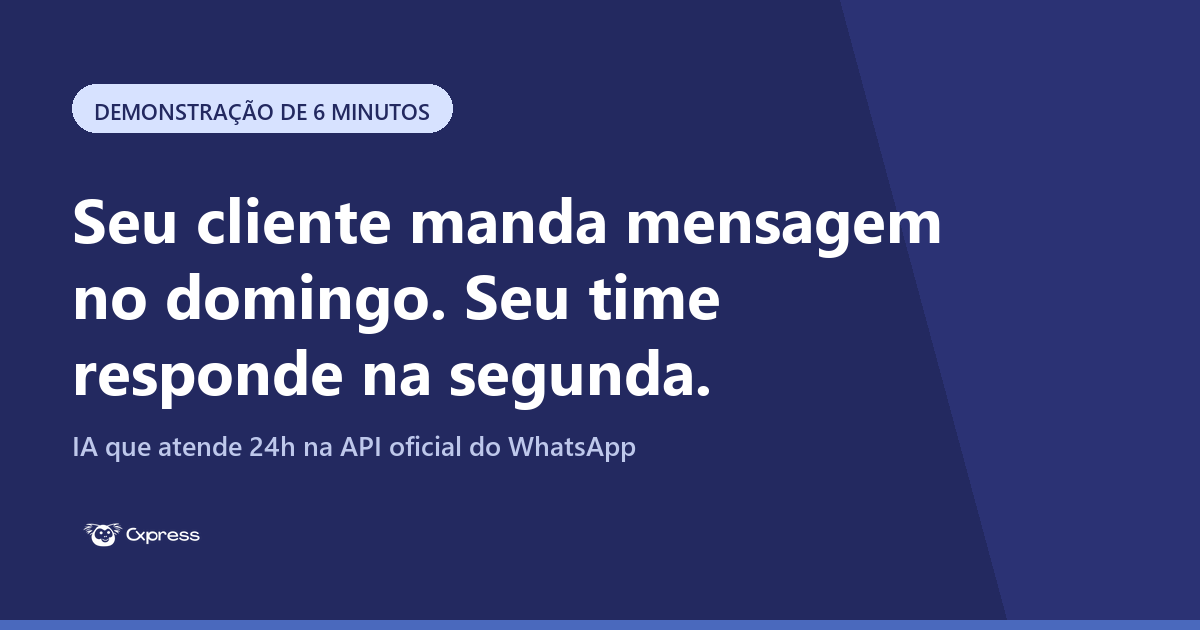
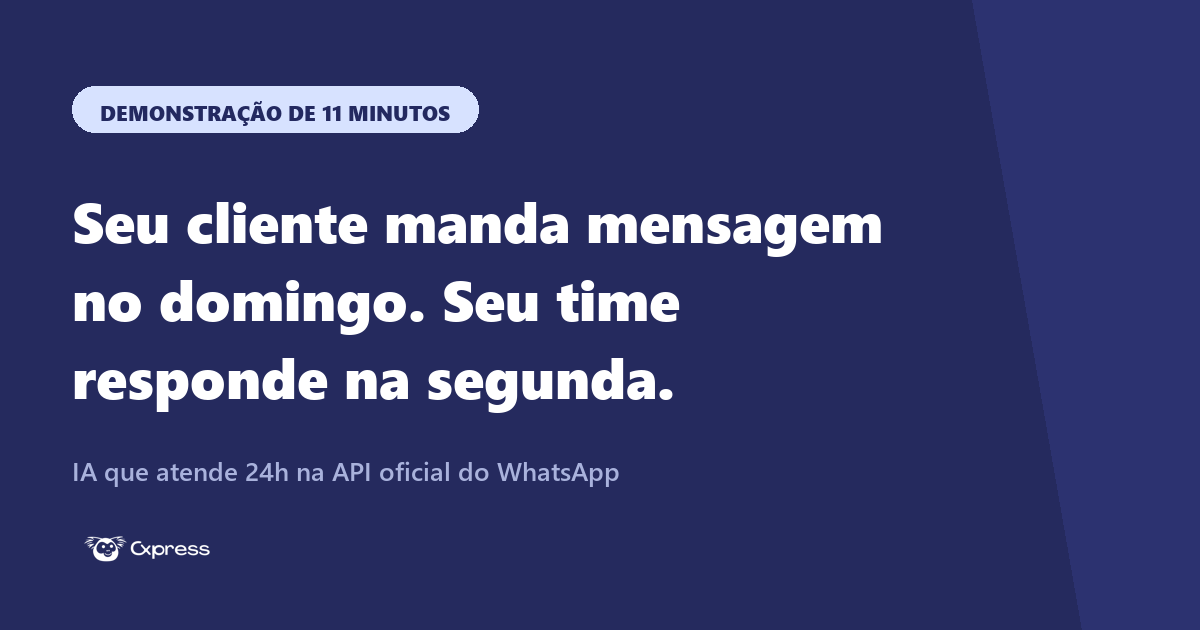
Atualizar duracao da demo para 11 minutos na LP VSL (#485)

diff --git a/landing-pages/cxpress/vsl-atendimento-ia/index.html b/landing-pages/cxpress/vsl-atendimento-ia/index.html
@@ -15,7 +15,7 @@ j=d.createElement(s),dl=l!='dataLayer'?'&l='+l:'';j.async=true;j.src=
 
   <link rel="icon" type="image/png" href="../../brand/cxpress/assets/logos/logo-icon.png" />
 
-  <meta name="description" content="Veja em 6 minutos como a IA da Cxpress atende 24 horas, qualifica e passa pro seu time só o que precisa de gente. API oficial do WhatsApp, mesmo número, no ar em 21 dias.">
+  <meta name="description" content="Veja em 11 minutos como a IA da Cxpress atende 24 horas, qualifica e passa pro seu time só o que precisa de gente. API oficial do WhatsApp, mesmo número, no ar em 21 dias.">
   <meta name="robots" content="index, follow">
   <meta name="author" content="Cxpress">
 
@@ -24,7 +24,7 @@ j=d.createElement(s),dl=l!='dataLayer'?'&l='+l:'';j.async=true;j.src=
   <meta property="og:locale" content="pt_BR">
   <meta property="og:url" content="https://{{DOMAIN}}/vsl-atendimento-ia">
   <meta property="og:title" content="Atendimento 24h com IA na API oficial do WhatsApp | Cxpress">
-  <meta property="og:description" content="Veja em 6 minutos como a IA da Cxpress atende 24 horas e passa pro seu time só o que precisa de gente.">
+  <meta property="og:description" content="Veja em 11 minutos como a IA da Cxpress atende 24 horas e passa pro seu time só o que precisa de gente.">
   <meta property="og:image" content="https://{{DOMAIN}}/assets/cxpress/og-vsl-atendimento-ia.png">
   <meta property="og:image:width" content="1200">
   <meta property="og:image:height" content="630">
@@ -32,7 +32,7 @@ j=d.createElement(s),dl=l!='dataLayer'?'&l='+l:'';j.async=true;j.src=
 
   <meta name="twitter:card" content="summary_large_image">
   <meta name="twitter:title" content="Atendimento 24h com IA na API oficial do WhatsApp | Cxpress">
-  <meta name="twitter:description" content="Veja em 6 minutos como a IA da Cxpress atende 24 horas e passa pro seu time só o que precisa de gente.">
+  <meta name="twitter:description" content="Veja em 11 minutos como a IA da Cxpress atende 24 horas e passa pro seu time só o que precisa de gente.">
   <meta name="twitter:image" content="https://{{DOMAIN}}/assets/cxpress/og-vsl-atendimento-ia.png">
 
   <script type="application/ld+json">
@@ -40,7 +40,7 @@ j=d.createElement(s),dl=l!='dataLayer'?'&l='+l:'';j.async=true;j.src=
     "@context": "https://schema.org",
     "@graph": [
       { "@type": "Organization", "@id": "https://home.cxpress.io/#organization", "name": "Cxpress", "url": "https://home.cxpress.io/", "logo": "https://{{DOMAIN}}/assets/cxpress/logos/logo-primary.png", "sameAs": ["https://www.linkedin.com/company/cxpress", "https://www.instagram.com/cxpress.io/"] },
-      { "@type": "WebPage", "@id": "https://{{DOMAIN}}/vsl-atendimento-ia#webpage", "url": "https://{{DOMAIN}}/vsl-atendimento-ia", "name": "Atendimento 24h com IA na API oficial do WhatsApp | Cxpress", "inLanguage": "pt-BR", "isPartOf": { "@id": "https://home.cxpress.io/#organization" }, "description": "Veja em 6 minutos como a IA da Cxpress atende 24 horas, qualifica e passa pro seu time só o que precisa de gente." },
+      { "@type": "WebPage", "@id": "https://{{DOMAIN}}/vsl-atendimento-ia#webpage", "url": "https://{{DOMAIN}}/vsl-atendimento-ia", "name": "Atendimento 24h com IA na API oficial do WhatsApp | Cxpress", "inLanguage": "pt-BR", "isPartOf": { "@id": "https://home.cxpress.io/#organization" }, "description": "Veja em 11 minutos como a IA da Cxpress atende 24 horas, qualifica e passa pro seu time só o que precisa de gente." },
       { "@type": "SoftwareApplication", "name": "Cxpress", "applicationCategory": "BusinessApplication", "operatingSystem": "Web", "url": "https://home.cxpress.io/", "inLanguage": "pt-BR", "publisher": { "@id": "https://home.cxpress.io/#organization" }, "offers": { "@type": "Offer", "price": "1290", "priceCurrency": "BRL" } }
     ]
   }
@@ -331,7 +331,7 @@ height="0" width="0" style="display:none;visibility:hidden"></iframe></noscript>
     <div class="hero">
       <div class="wrap hero__grid">
         <div class="hero__content">
-          <span class="eyebrow">Demonstração de 6 minutos</span>
+          <span class="eyebrow">Demonstração de 11 minutos</span>
           <h1>Seu cliente manda mensagem no domingo. Seu time responde na segunda.</h1>
           <p class="lead">Veja como a IA da Cxpress atende 24 horas por texto e por áudio, resolve o que é repetitivo e passa pro seu time <b>só o que precisa de gente</b>.</p>
           <div class="cta-row">
